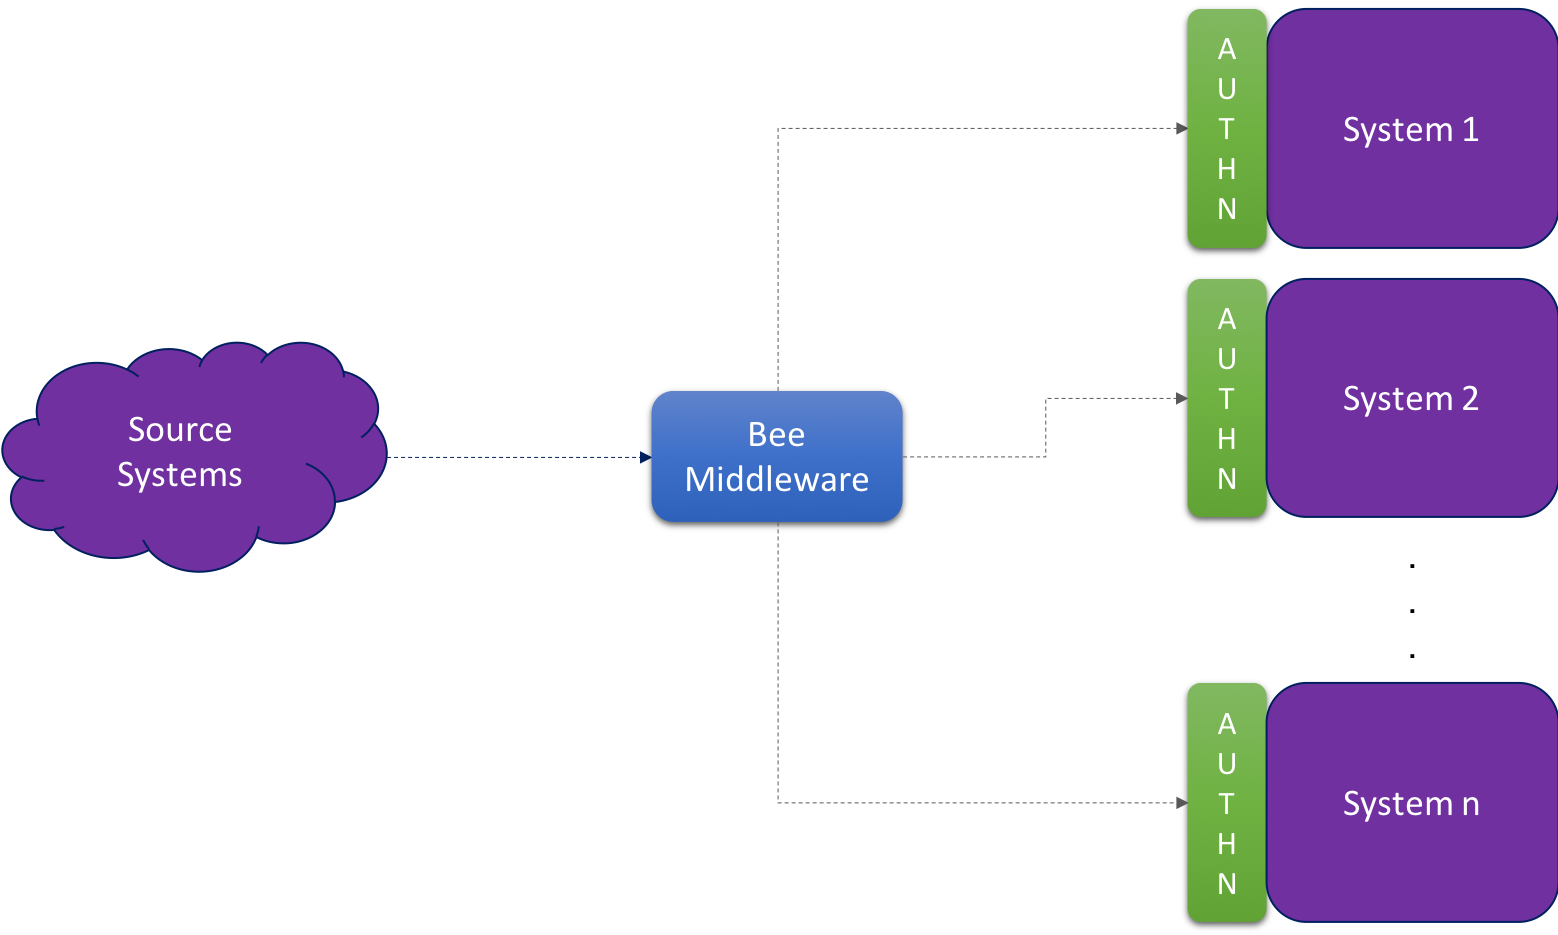
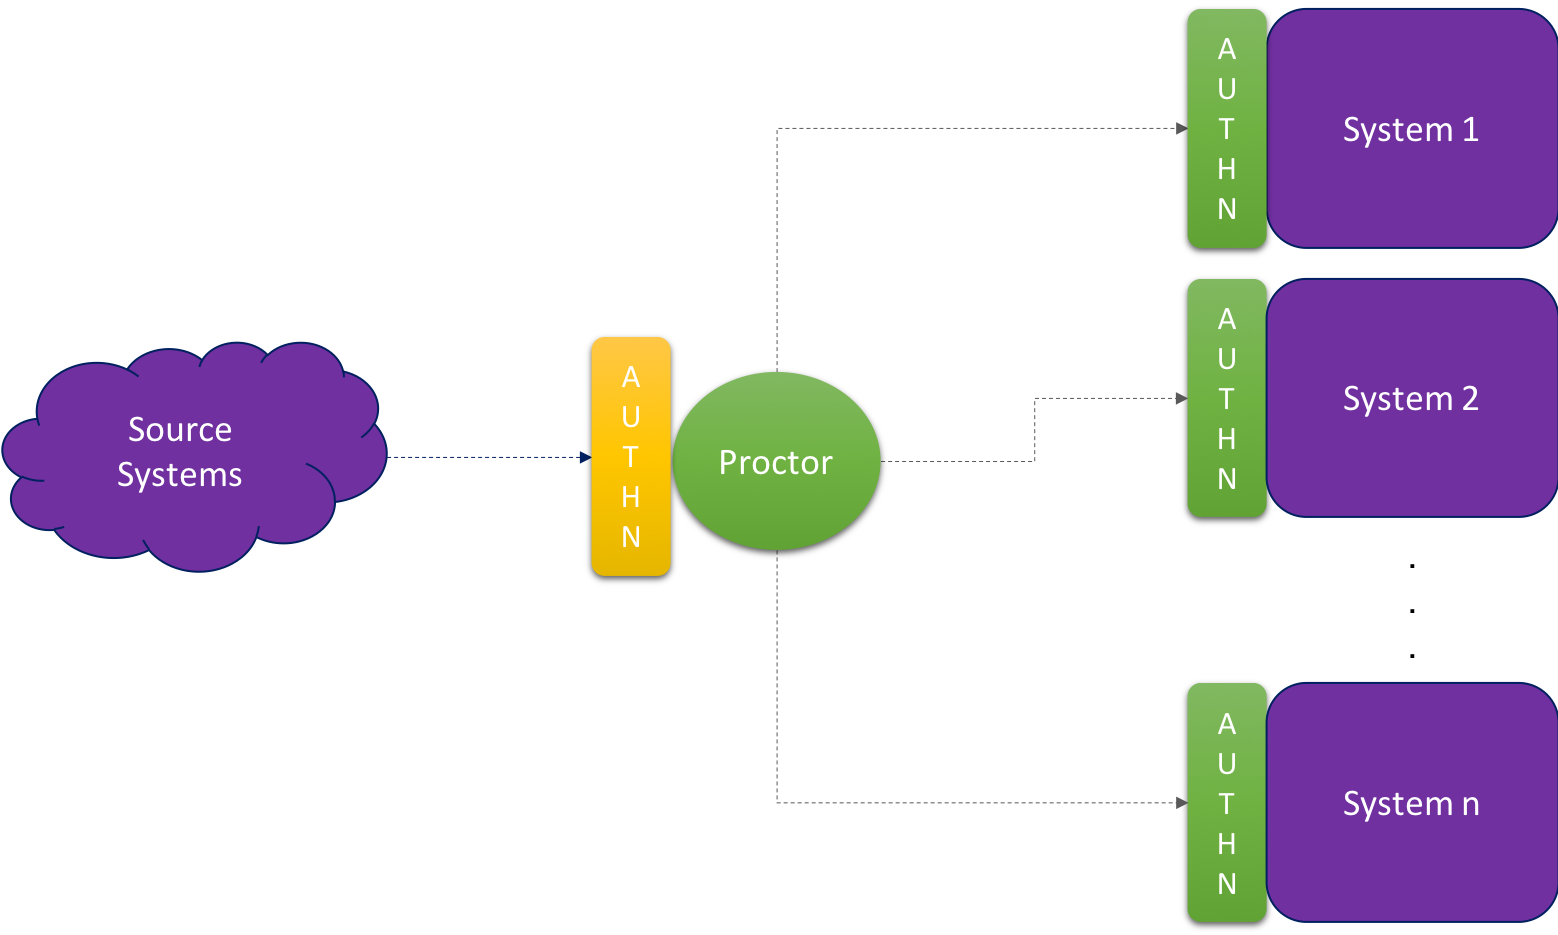
Adding docs

Changed region(s): [[0.3697, 0.3412, 0.5854, 0.6203]]

diff --git a/plugins/authenticator/README.md b/plugins/authenticator/README.md
@@ -1,12 +1,9 @@
 # Overview
 
-As part of its advisory services arm, Bee Projects often builds integrations between various commercial and/or opensource products.
-
-![middleware](./images/middleware.png)
-
-A common and recurring theme across these integrations is enabling authentication between any middleware we develop and the source and/or destination systems we connect with.
+While forwarwarding traffic between systems, Proctor can facilitate the role of an authentication broker. 
 
 ![authentication](./images/authentication.png)
 
-We often integrate with the same off the shelf product across every client. This authenticator plugin project allows us to generecise the authentication mechanism using a plug-in model that enables us to reuse such capability across different environments.
+An  *Authenticator plugin* is an independant natively compiled binary that exposes an API over net/rpc. This allows us to generecise any given authentication mechanism using a plug-in model and enables its reuse across different applications and environments.
+
 

diff --git a/README.md b/README.md
@@ -1,0 +1,6 @@
+# Overview
+
+Proctor allows you trap and inject custom behaviour when forwarding traffic between source and destination systems.
+
+
+![Proctor](./images/proctor.png)
